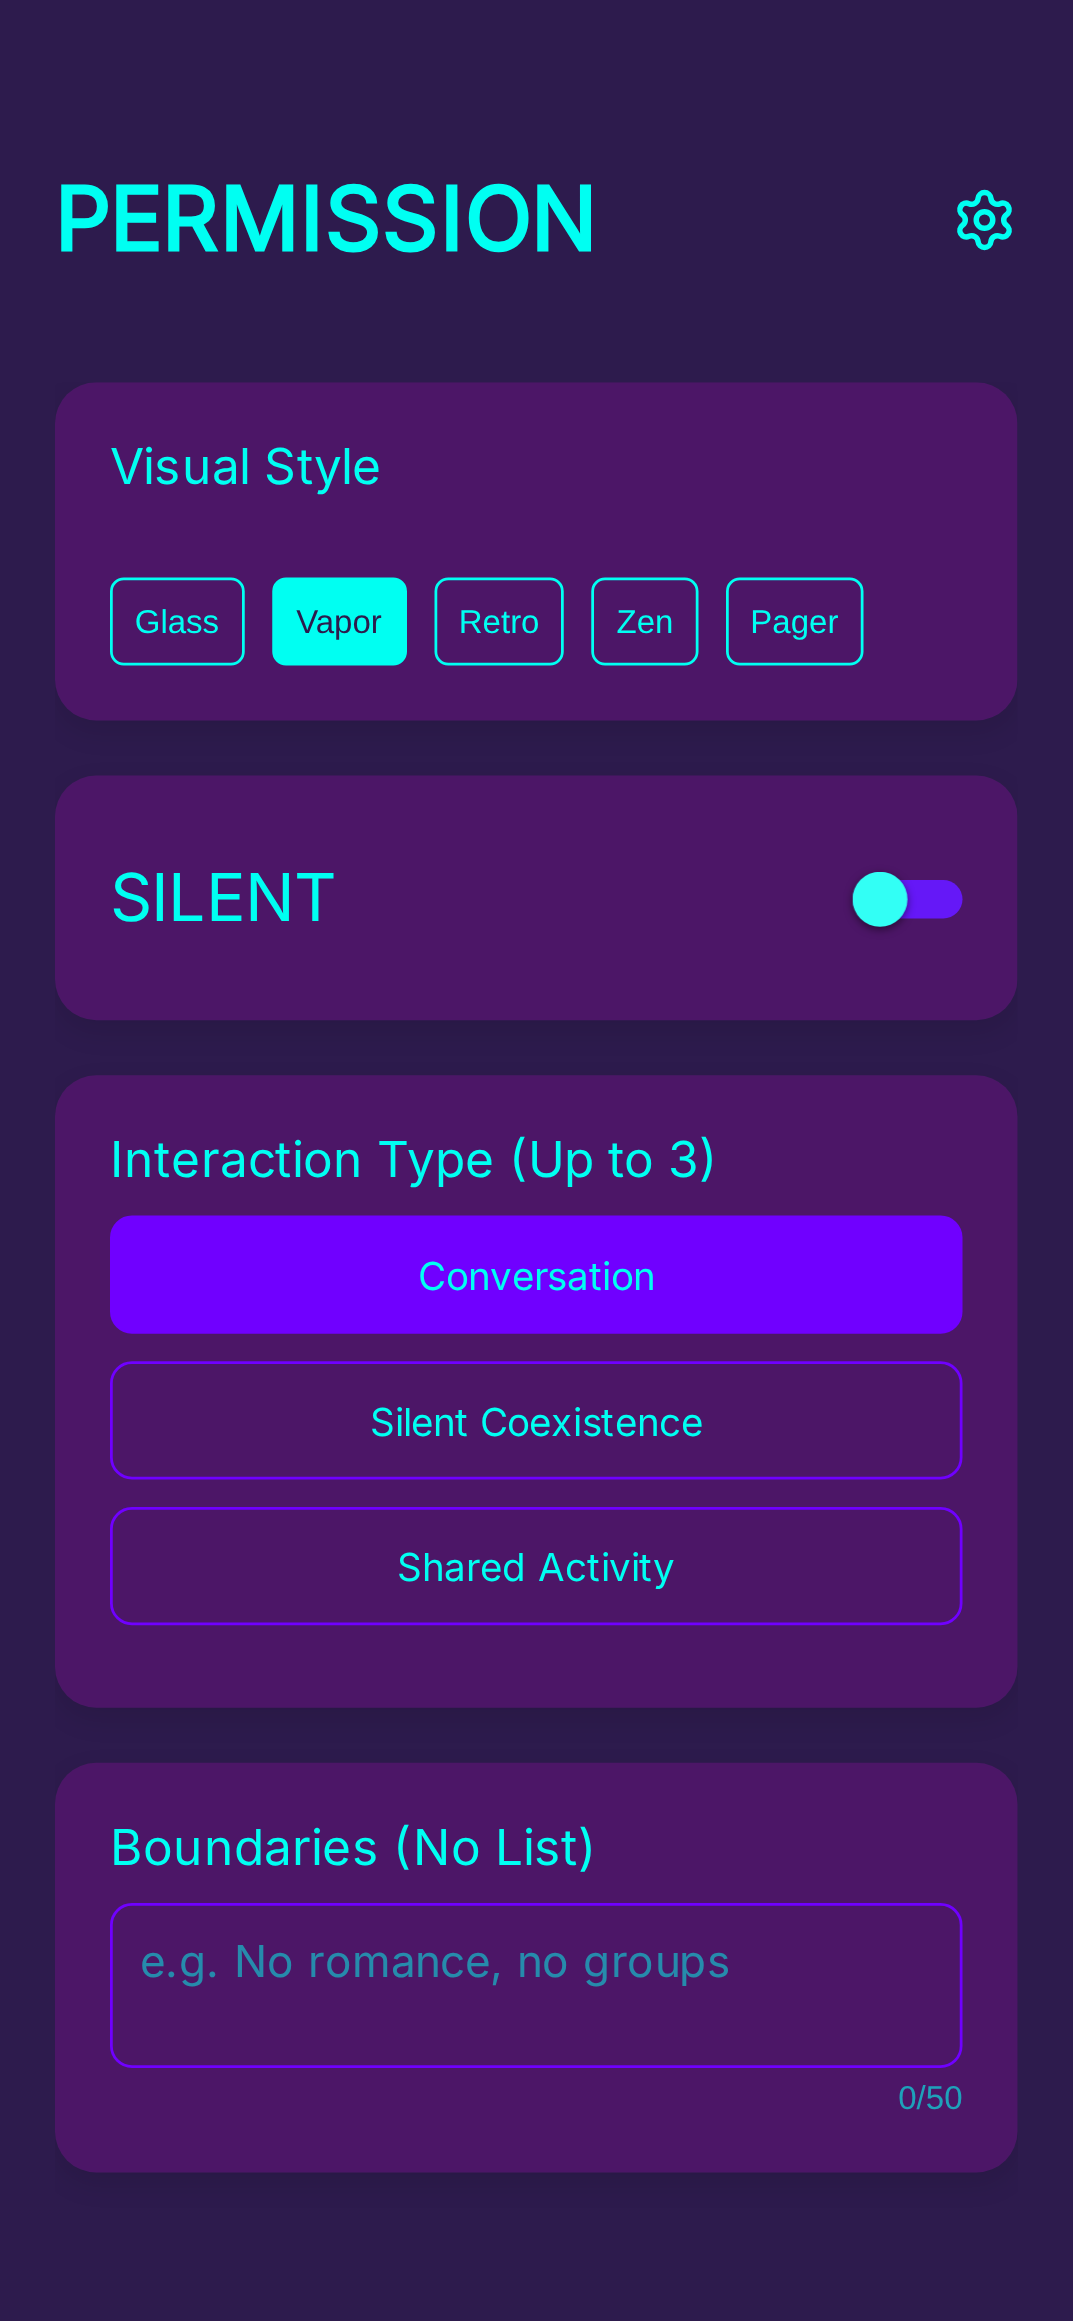
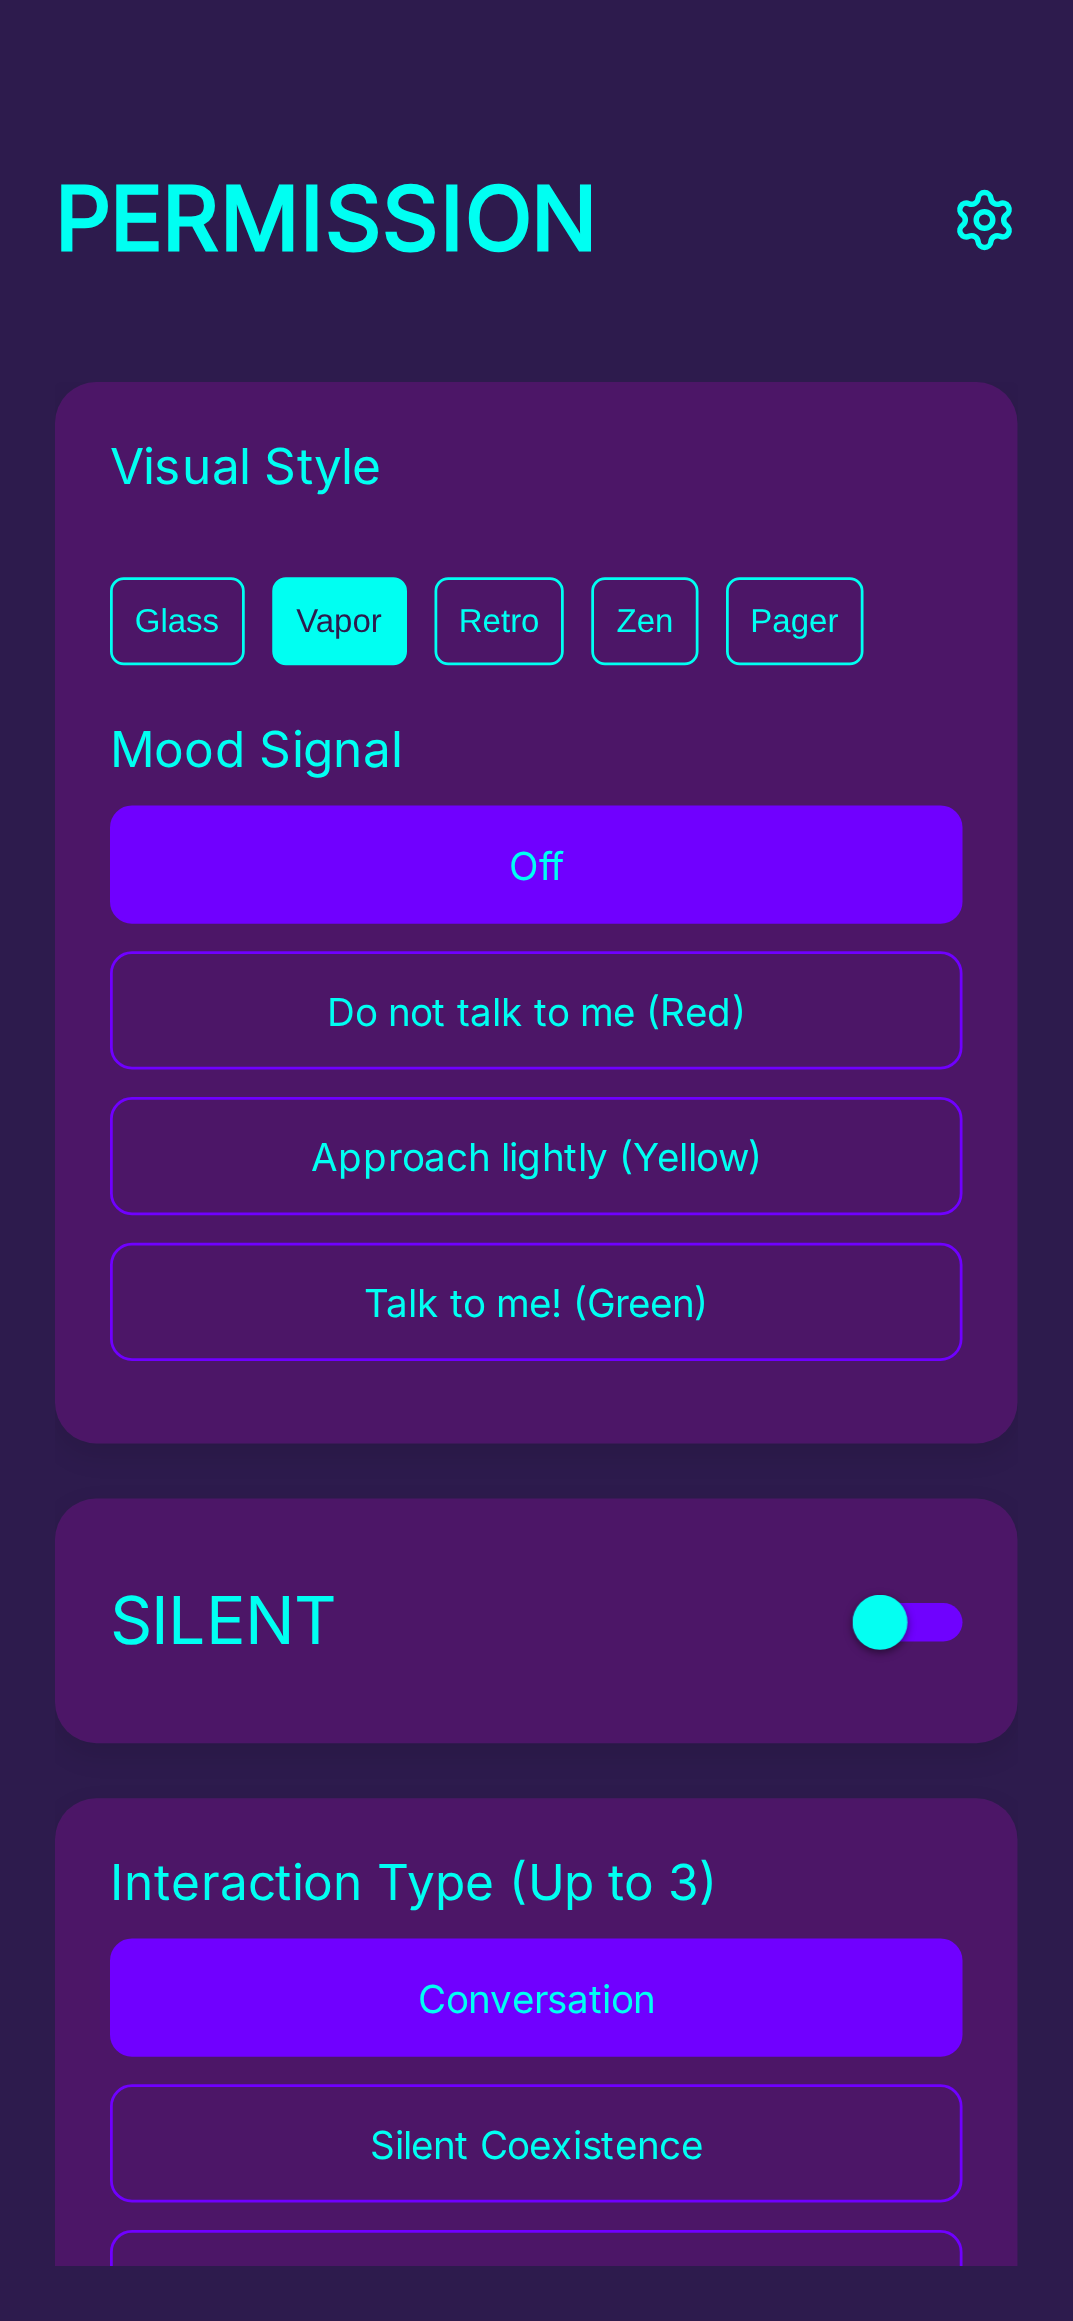
feat: implement mood ring UI signal

diff --git a/src/screens/HomeScreen.js b/src/screens/HomeScreen.js
@@ -6,7 +6,7 @@ import { Settings, Info, Radio } from 'lucide-react-native';
 import Radar from '../components/Radar';
 import { loadNoList, saveNoList, loadInteractionTypes, saveInteractionTypes } from '../utils/storage';
 
-const HomeScreen = ({ onToggle, isActive }) => {
+const HomeScreen = ({ onToggle, isActive, mood, onMoodChange }) => {
   const { theme, setThemeId, themes } = useTheme();
   const [noList, setNoList] = useState('');
   const [interactionTypes, setInteractionTypesSelected] = useState(['conversation']);
@@ -52,6 +52,11 @@ const HomeScreen = ({ onToggle, isActive }) => {
   const toggleActive = () => {
     Haptics.impactAsync(Haptics.ImpactFeedbackStyle.Heavy);
     onToggle(!isActive);
+  };
+
+  const handleMoodSelect = (m) => {
+    Haptics.selectionAsync();
+    onMoodChange(m);
   };
 
   const styles = StyleSheet.create({
@@ -143,6 +148,25 @@ const HomeScreen = ({ onToggle, isActive }) => {
       borderRadius: 5,
       borderWidth: 1,
       borderColor: theme.text,
+    },
+    moodPicker: {
+      marginTop: 20,
+    },
+    moodBtn: {
+      padding: 12,
+      borderRadius: 8,
+      borderWidth: 1,
+      borderColor: theme.secondary,
+      marginBottom: 10,
+      backgroundColor: 'transparent',
+    },
+    moodBtnActive: {
+      backgroundColor: theme.secondary,
+    },
+    moodText: {
+      color: theme.text,
+      fontFamily: theme.fontFamily,
+      textAlign: 'center',
     }
   });
 
@@ -172,6 +196,27 @@ const HomeScreen = ({ onToggle, isActive }) => {
                   <Text style={{ color: theme.id === t.id ? theme.background : theme.text, fontSize: 12 }}>
                     {t.name}
                   </Text>
+                </TouchableOpacity>
+              ))}
+            </View>
+
+            <View style={styles.moodPicker}>
+              <Text style={styles.label}>Mood Signal</Text>
+              {[
+                { id: 'none', label: 'Off' },
+                { id: 'red', label: 'Do not talk to me (Red)' },
+                { id: 'yellow', label: 'Approach lightly (Yellow)' },
+                { id: 'green', label: 'Talk to me! (Green)' }
+              ].map((m) => (
+                <TouchableOpacity
+                  key={m.id}
+                  style={[
+                    styles.moodBtn,
+                    mood === m.id && styles.moodBtnActive
+                  ]}
+                  onPress={() => handleMoodSelect(m.id)}
+                >
+                  <Text style={styles.moodText}>{m.label}</Text>
                 </TouchableOpacity>
               ))}
             </View>

diff --git a/src/components/MoodRing.js b/src/components/MoodRing.js
@@ -1,0 +1,82 @@
+import React, { useEffect, useRef } from 'react';
+import { StyleSheet, Animated, View } from 'react-native';
+
+const MoodRing = ({ mood }) => {
+  const pulseAnim = useRef(new Animated.Value(0)).current;
+
+  useEffect(() => {
+    pulseAnim.stopAnimation();
+    if (!mood || mood === 'none') {
+      pulseAnim.setValue(0);
+      return;
+    }
+
+    Animated.loop(
+      Animated.sequence([
+        Animated.timing(pulseAnim, {
+          toValue: 1,
+          duration: 2000,
+          useNativeDriver: false,
+        }),
+        Animated.timing(pulseAnim, {
+          toValue: 0,
+          duration: 2000,
+          useNativeDriver: false,
+        })
+      ])
+    ).start();
+  }, [mood, pulseAnim]);
+
+  if (!mood || mood === 'none') {
+    return null;
+  }
+
+  const getMoodColor = () => {
+    switch (mood) {
+      case 'red': return '#ff3b30'; // iOS Red
+      case 'yellow': return '#ffcc00'; // iOS Yellow
+      case 'green': return '#34c759'; // iOS Green
+      default: return 'transparent';
+    }
+  };
+
+  const color = getMoodColor();
+
+  return (
+    <View pointerEvents="none" style={styles.container}>
+      <Animated.View
+        style={[
+          styles.ring,
+          {
+            borderColor: color,
+            shadowColor: color,
+            opacity: pulseAnim.interpolate({
+              inputRange: [0, 1],
+              outputRange: [0.4, 1],
+            }),
+            shadowOpacity: pulseAnim.interpolate({
+              inputRange: [0, 1],
+              outputRange: [0.5, 1],
+            }),
+          }
+        ]}
+      />
+    </View>
+  );
+};
+
+const styles = StyleSheet.create({
+  container: {
+    ...StyleSheet.absoluteFillObject,
+    zIndex: 9999, // Ensure it's on top of everything
+  },
+  ring: {
+    ...StyleSheet.absoluteFillObject,
+    borderWidth: 8,
+    shadowOffset: { width: 0, height: 0 },
+    shadowRadius: 15,
+    elevation: 20, // For Android
+  }
+});
+
+export default MoodRing;

diff --git a/App.js b/App.js
@@ -1,10 +1,11 @@
 import React, { useState, useEffect } from 'react';
 import { StyleSheet, View, StatusBar, SafeAreaView } from 'react-native';
 import { ThemeProvider, useTheme } from './src/theme/ThemeContext';
-import { loadIsActive, saveIsActive, loadInteractionTypes } from './src/utils/storage';
+import { loadIsActive, saveIsActive, loadInteractionTypes, loadMoodRing, saveMoodRing } from './src/utils/storage';
 import { generateHandshake } from './src/utils/scripts';
 import { useProximity } from './src/hooks/useProximity';
 import AnimatedBackground from './src/components/AnimatedBackground';
+import MoodRing from './src/components/MoodRing';
 import HomeScreen from './src/screens/HomeScreen';
 import MatchFound from './src/screens/MatchFound';
 import Bridge from './src/screens/Bridge';
@@ -12,10 +13,17 @@ import Bridge from './src/screens/Bridge';
 const MainApp = () => {
   const { theme } = useTheme();
   const [isActive, setIsActive] = useState(false);
+  const [mood, setMood] = useState('none');
 
   useEffect(() => {
     loadIsActive().then(setIsActive);
+    loadMoodRing().then(setMood);
   }, []);
+
+  const handleMoodChange = async (newMood) => {
+    setMood(newMood);
+    await saveMoodRing(newMood);
+  };
 
   const {
     matchingState,
@@ -56,8 +64,9 @@ const MainApp = () => {
       ) : matchingState === 'match_found' ? (
         <MatchFound onAccept={handleMatchAccept} />
       ) : (
-        <HomeScreen isActive={isActive} onToggle={handleToggleActive} />
+        <HomeScreen isActive={isActive} onToggle={handleToggleActive} mood={mood} onMoodChange={handleMoodChange} />
       )}
+      <MoodRing mood={mood} />
     </SafeAreaView>
   );
 };

diff --git a/src/utils/storage.js b/src/utils/storage.js
@@ -5,6 +5,7 @@ const STORAGE_KEYS = {
   NO_LIST: 'permission_no_list',
   INTERACTION_TYPES: 'permission_interaction_types',
   THEME_ID: 'permission_theme_id',
+  MOOD_RING: 'permission_mood_ring',
 };
 
 export const saveIsActive = async (isActive) => {
@@ -76,5 +77,23 @@ export const loadThemeId = async () => {
   } catch (e) {
     console.error('Failed to load themeId', e);
     return 'glassmorphism';
+  }
+};
+
+export const saveMoodRing = async (mood) => {
+  try {
+    await AsyncStorage.setItem(STORAGE_KEYS.MOOD_RING, mood);
+  } catch (e) {
+    console.error('Failed to save mood ring', e);
+  }
+};
+
+export const loadMoodRing = async () => {
+  try {
+    const value = await AsyncStorage.getItem(STORAGE_KEYS.MOOD_RING);
+    return value !== null ? value : 'none';
+  } catch (e) {
+    console.error('Failed to load mood ring', e);
+    return 'none';
   }
 };
